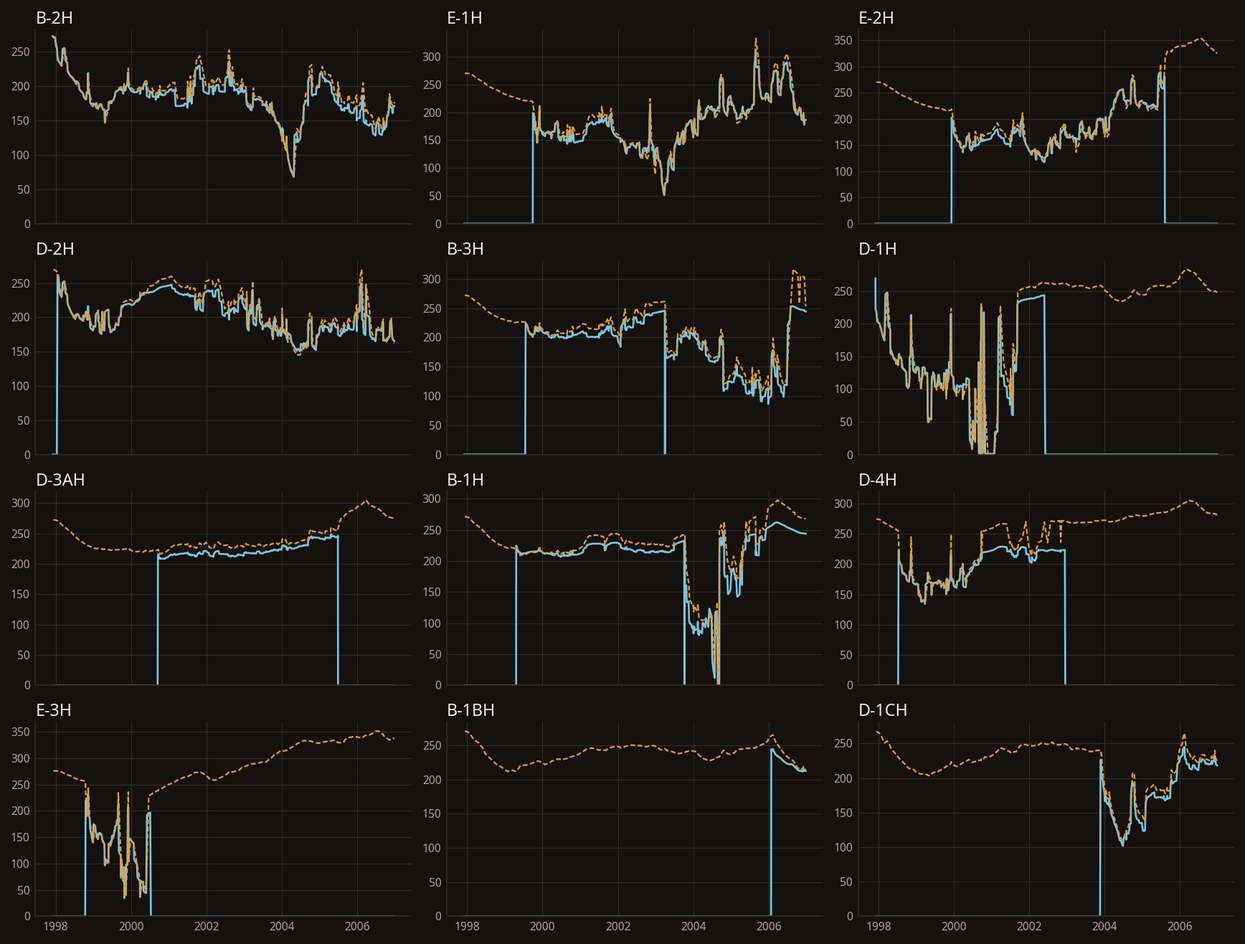
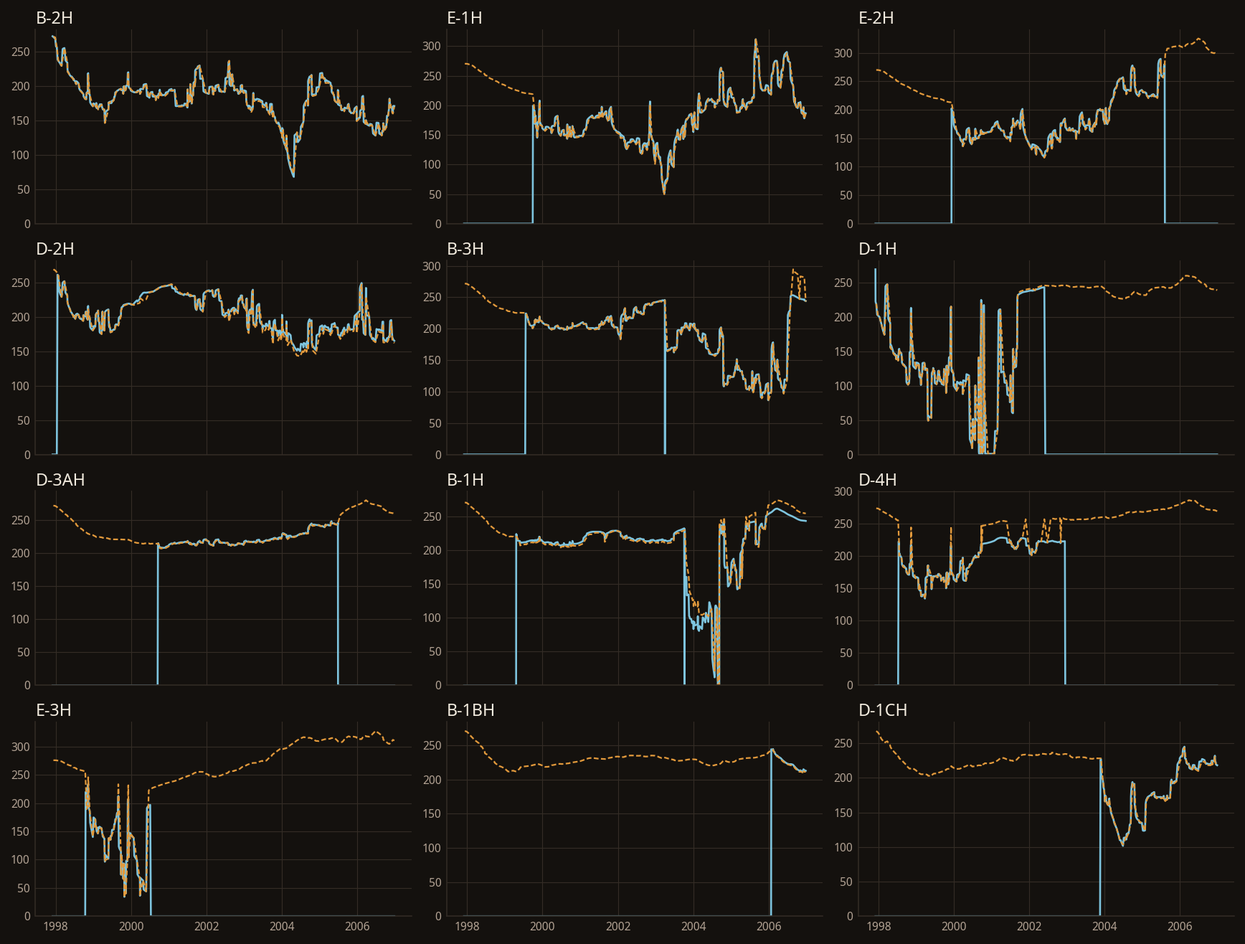
norne fixed

diff --git a/web/index.html b/web/index.html
@@ -41,13 +41,13 @@
           <h1>Солвер пласта.<br><em>Norne против Eclipse.</em></h1>
           <p class="lede">Открытый гидродинамический симулятор: читает DATA-файл Eclipse и считает трёхфазный пласт целиком. Ниже — месторождение Norne, девять лет истории, рядом с Eclipse&nbsp;2014.2.</p>
           <div class="metrics">
-            <div><b>36 мин</b><span>3312 суток на RTX 3090 Ti</span></div>
+            <div><b>35 мин</b><span>3312 суток на RTX 3090 Ti</span></div>
             <div><b>44&nbsp;431</b><span>активная ячейка, 36 скважин</span></div>
-            <div><b>−4,5%</b><span>накопленная нефть к концу</span></div>
-            <div><b>+0,15%</b><span>та же нефть на 1000-е сутки</span></div>
+            <div><b>−0,16%</b><span>накопленная нефть к концу</span></div>
+            <div><b>+0,9%</b><span>накопленная вода к концу</span></div>
           </div>
           <figure class="spark">
-            <img src="assets/hero_fopt.svg" alt="Накопленная нефть: наш солвер и Eclipse почти совпадают и слегка расходятся к 2006 году">
+            <img src="assets/hero_fopt.svg" alt="Накопленная нефть: наш солвер и Eclipse совпадают все девять лет">
             <div class="legend">
               <span><i></i>Eclipse</span>
               <span class="ours"><i></i>наш солвер</span>
@@ -102,7 +102,7 @@
         <div class="prose">
           <p>Norne — открытая модель Equinor, Северное море. Сетка 46×112×22, история с ноября 1997 по декабрь 2006, 3312 суток. Добыча нефти, воды и газа, закачка воды и газа, 36 скважин, реальное расписание, включая остановки и смену режима.</p>
           <p>Считали тот же deck, что Eclipse 2014.2. Сравнивали векторы SUMMARY в наши отчётные даты. Серые точки на графиках — исторические замеры из модели: это то, за чем следует управление скважин, а не второй симулятор. Совпадать мы должны с голубой линией.</p>
-          <p>Первые три года накопленная нефть лежит на Eclipse: <strong>+0,09%</strong> на 360-е сутки и <strong>+0,15%</strong> на 1000-е. Дальше кривые расходятся. К концу нефти меньше на 4,5%, воды больше на 8,0%, газа больше на 0,6%. Закачка газа совпала полностью, закачка воды — до 0,7%.</p>
+          <p>Накопленная нефть лежит на Eclipse все девять лет: по годам расхождение от −0,17% до +0,46%. К концу нефти меньше на 0,16%, воды больше на 0,9%, газа меньше на 0,07%. Закачка газа совпала полностью, закачка воды — до 0,15%. OPM Flow на этом же deck даёт −0,21%, +1,4% и −0,44%.</p>
         </div>
 
         <div class="slip" role="table" aria-label="Накопленные объёмы к декабрю 2006">
@@ -110,22 +110,22 @@
             <span>вектор</span><span>что это</span><span>наш · Eclipse</span><span></span><span>разница</span>
           </div>
           <div class="slip-row" role="row">
-            <span class="slip-k">FOPT</span><span>нефть</span><span class="nums"><b>64,28</b> · <i>67,32</i></span><span class="unit">млн м³</span><span class="delta">−4,5%</span>
+            <span class="slip-k">FOPT</span><span>нефть</span><span class="nums"><b>67,21</b> · <i>67,32</i></span><span class="unit">млн м³</span><span class="delta">−0,16%</span>
           </div>
           <div class="slip-row" role="row">
-            <span class="slip-k">FWPT</span><span>вода</span><span class="nums"><b>25,06</b> · <i>23,20</i></span><span class="unit">млн м³</span><span class="delta">+8,0%</span>
+            <span class="slip-k">FWPT</span><span>вода</span><span class="nums"><b>23,41</b> · <i>23,20</i></span><span class="unit">млн м³</span><span class="delta">+0,9%</span>
           </div>
           <div class="slip-row" role="row">
-            <span class="slip-k">FGPT</span><span>газ</span><span class="nums"><b>14,73</b> · <i>14,64</i></span><span class="unit">млрд м³</span><span class="delta">+0,6%</span>
+            <span class="slip-k">FGPT</span><span>газ</span><span class="nums"><b>14,63</b> · <i>14,64</i></span><span class="unit">млрд м³</span><span class="delta">−0,07%</span>
           </div>
           <div class="slip-row" role="row">
-            <span class="slip-k">FWIT</span><span>закачка воды</span><span class="nums"><b>101,4</b> · <i>102,1</i></span><span class="unit">млн м³</span><span class="delta">−0,7%</span>
+            <span class="slip-k">FWIT</span><span>закачка воды</span><span class="nums"><b>101,95</b> · <i>102,1</i></span><span class="unit">млн м³</span><span class="delta">−0,15%</span>
           </div>
           <div class="slip-row" role="row">
             <span class="slip-k">FGIT</span><span>закачка газа</span><span class="nums"><b>8,685</b> · <i>8,685</i></span><span class="unit">млрд м³</span><span class="delta">0,00%</span>
           </div>
         </div>
-        <p class="note">Среднее по времени |наш − Eclipse| / |Eclipse|: нефть 4,5%, вода 8,8%, газ 1,9%, закачка воды 0,7%, закачка газа меньше 0,001%. Оранжевый пунктир — наш солвер, голубая линия — Eclipse 2014.2.</p>
+        <p class="note">Среднее по времени |наш − Eclipse| / |Eclipse|: дебит нефти 0,65%, воды 1,1%, газа 0,7%, закачки воды 0,06%, закачка газа меньше 0,001%. Оранжевый пунктир — наш солвер, голубая линия — Eclipse 2014.2.</p>
 
         <figure>
           <img class="chart" src="assets/rates.png" alt="Дебиты нефти, воды и газа, закачка и обводнённость: наш солвер, Eclipse и история">
@@ -133,9 +133,9 @@
         </figure>
         <figure>
           <img class="chart" src="assets/cumulative.png" alt="Накопленная добыча и среднее пластовое давление">
-          <figcaption>Накопленные объёмы и давление. Наше давление — среднее по поровому объёму, у Eclipse на графике вектор FPR. К концу 317 бар против 272 бар: определения среднего разные, и разрыв растёт вместе с расхождением добычи, это не только сдвиг шкалы.</figcaption>
+          <figcaption>Накопленные объёмы и давление. Наше давление — среднее по объёму углеводородов, как FPR у Eclipse. К концу 270,8 бар против 271,6 бар.</figcaption>
         </figure>
-        <p class="note">Переток из пласта в ствол нагнетательной скважины смешивается в стволе и уходит обратно в пласт через закачивающие перфорации, как в Eclipse. Со смешением закачка воды подтянулась к Eclipse с −1,8% до −0,7%, газ — с +1,3% до +0,6%, а лишней воды стало больше: +8,0% вместо +5,2%. Прогон 25 октября 2026: 2149 секунд, RTX 3090 Ti, PyTorch 2.7.</p>
+        <p class="note">Что сблизило с Eclipse: VAPPARS отключает заданный раньше DRSDT, как пишет сам Eclipse; Rs и Rv для пересчёта RESV усредняются по объёмам нефти и газа; давление выше конца таблицы PVTG не уводит вязкость газа в минус; кэш линейной подсистемы перестраивается при смене перфораций. Прогон 25 октября 2026: 2106 секунд, RTX 3090 Ti, PyTorch 2.7.</p>
       </div>
     </section>
 
@@ -144,7 +144,7 @@
         <p class="index">03 — скважины</p>
         <h2>Двенадцать крупнейших</h2>
         <div class="prose">
-          <p>Накопленная нефть по скважинам — от +0,4% на E-3H и −0,1% на D-2H до −6,4% на D-1H и −8,2% на D-1CH. Форма дебита, моменты запуска и остановки совпадают даже там, где интеграл уезжает.</p>
+          <p>Накопленная нефть по скважинам: у 12 из 12 расхождение меньше 2%, от +0,0% на E-3H до −1,9% на D-1CH. Форма дебита, моменты запуска и остановки совпадают.</p>
         </div>
         <div class="table-wrap">
           <table class="bench">
@@ -152,18 +152,18 @@
               <tr><th>скважина</th><th class="num">наш, млн м³</th><th class="num">Eclipse</th><th class="num">разница</th></tr>
             </thead>
             <tbody>
-              <tr><td>B-2H</td><td class="num">10,22</td><td class="num">10,82</td><td class="num">−5,5%</td></tr>
-              <tr><td>E-1H</td><td class="num">7,71</td><td class="num">8,04</td><td class="num">−4,2%</td></tr>
-              <tr><td>E-2H</td><td class="num">7,49</td><td class="num">7,82</td><td class="num">−4,2%</td></tr>
-              <tr><td>D-2H</td><td class="num">7,52</td><td class="num">7,53</td><td class="num">−0,1%</td></tr>
-              <tr><td>B-3H</td><td class="num">5,78</td><td class="num">6,11</td><td class="num">−5,5%</td></tr>
-              <tr><td>D-1H</td><td class="num">5,15</td><td class="num">5,50</td><td class="num">−6,4%</td></tr>
-              <tr><td>D-3AH</td><td class="num">3,43</td><td class="num">3,66</td><td class="num">−6,1%</td></tr>
-              <tr><td>B-1H</td><td class="num">3,49</td><td class="num">3,58</td><td class="num">−2,5%</td></tr>
-              <tr><td>D-4H</td><td class="num">3,14</td><td class="num">3,17</td><td class="num">−1,0%</td></tr>
-              <tr><td>E-3H</td><td class="num">1,69</td><td class="num">1,69</td><td class="num">+0,4%</td></tr>
-              <tr><td>B-1BH</td><td class="num">1,39</td><td class="num">1,42</td><td class="num">−2,7%</td></tr>
-              <tr><td>D-1CH</td><td class="num">1,21</td><td class="num">1,32</td><td class="num">−8,2%</td></tr>
+              <tr><td>B-2H</td><td class="num">10,83</td><td class="num">10,82</td><td class="num">+0,1%</td></tr>
+              <tr><td>E-1H</td><td class="num">8,03</td><td class="num">8,04</td><td class="num">−0,2%</td></tr>
+              <tr><td>E-2H</td><td class="num">7,81</td><td class="num">7,82</td><td class="num">−0,1%</td></tr>
+              <tr><td>D-2H</td><td class="num">7,66</td><td class="num">7,53</td><td class="num">+1,7%</td></tr>
+              <tr><td>B-3H</td><td class="num">6,12</td><td class="num">6,11</td><td class="num">+0,1%</td></tr>
+              <tr><td>D-1H</td><td class="num">5,45</td><td class="num">5,50</td><td class="num">−1,0%</td></tr>
+              <tr><td>D-3AH</td><td class="num">3,61</td><td class="num">3,66</td><td class="num">−1,1%</td></tr>
+              <tr><td>B-1H</td><td class="num">3,59</td><td class="num">3,58</td><td class="num">+0,0%</td></tr>
+              <tr><td>D-4H</td><td class="num">3,18</td><td class="num">3,17</td><td class="num">+0,2%</td></tr>
+              <tr><td>E-3H</td><td class="num">1,69</td><td class="num">1,69</td><td class="num">+0,0%</td></tr>
+              <tr><td>B-1BH</td><td class="num">1,42</td><td class="num">1,42</td><td class="num">−0,4%</td></tr>
+              <tr><td>D-1CH</td><td class="num">1,29</td><td class="num">1,32</td><td class="num">−1,9%</td></tr>
             </tbody>
           </table>
         </div>
@@ -221,9 +221,9 @@
     <section id="solver">
       <div class="wrap">
         <p class="index">05 — решатель</p>
-        <h2>Час с четвертью на девять лет</h2>
+        <h2>Полчаса на девять лет</h2>
         <div class="prose">
-          <p>724 шага по времени, 3467 итераций Ньютона, в среднем 4,8 на успешный шаг. Семь шагов не сошлись и были разрезаны — ни один не дошёл до минимального. Иерархия AMG строится и дальше только обновляется. Допуск линейного решателя — неточный Ньютон: пока невязка большая, систему не вылизывают до машинного нуля.</p>
+          <p>683 шага по времени, 3259 итераций Ньютона, в среднем 4,8 на шаг. Три шага не сошлись и были разрезаны — ни один не дошёл до минимального. Иерархия AMG строится и дальше только обновляется. Допуск линейного решателя — неточный Ньютон: пока невязка большая, систему не вылизывают до машинного нуля.</p>
           <p>На миллионе ячеек двухфазный стресс-тест проходит на одной 24 ГБ карте. Norne меньше, но жёстче: жирный газ, разломы, история, скважины, которые открываются и закрываются. Узкое место сейчас не AMG, а то, что в матрице сидят и неактивные ячейки — 113 тысячи вместо 44.</p>
         </div>
         <figure>
@@ -261,7 +261,7 @@
         <p class="index">07 — чего в этом счёте нет</p>
         <h2>Границы, как они есть</h2>
         <ul class="limits">
-          <li><strong>Поздняя вода</strong>К концу истории воды на 8,0% больше, чем у Eclipse, а нефти на 4,5% меньше. Прорыв воды приходит в те же сроки, лишняя вода набегает после него, в основном на E-1H и E-2H. Источник найден: гистерезис газа (защемлённый газ, ISGCR 0,22). С отключённым гистерезисом D-1H и B-2H совпадают с Eclipse, но нефть и газ уходят дальше. Сверяем кривую сканирования газа с Eclipse.</li>
+          <li><strong>Отдельные скважины</strong>Месторождение целиком сходится с Eclipse до долей процента, но по скважинам остаются выбросы: вода на E-4AH больше на 58%, на B-1H меньше на 15%, нефть на D-4AH и E-4AH меньше на 4%.</li>
           <li><strong>Устье и VFP</strong>Нет таблиц VFP и ограничения по устьевому давлению. Для сверки с историей Norne они не нужны: там VFP не задана и забой ограничен 1 атм, но для прогнозов они понадобятся.</li>
           <li><strong>Неактивные ячейки</strong>Решатель несёт все 113&nbsp;344 ячейки сетки. Активных 44&nbsp;431. Лишняя работа примерно в два с половиной раза.</li>
           <li><strong>Трассеры, WECON, сети</strong>TRACER, экономические ограничения скважин и поверхностная сеть не считаются. Гистерезис ОФП — только модель Карлсона. VAPPARS с VAP2 ≠ 0 не поддерживается.</li>

diff --git a/web/main.js b/web/main.js
@@ -1,7 +1,7 @@
 (function () {
   const caps = {
     "assets/wells_oil.png": "Дебит нефти, м³/сут. Голубая — Eclipse, пунктир — наш солвер, точки — история.",
-    "assets/wells_water.png": "Дебит воды, м³/сут. Вода приходит позже нефти: к концу истории её на 8,0% больше, чем у Eclipse.",
+    "assets/wells_water.png": "Дебит воды, м³/сут. Вода приходит позже нефти: к концу истории её на 0,9% больше, чем у Eclipse.",
     "assets/wells_gas.png": "Дебит газа, тыс. м³/сут. Свободный газ плюс растворённый.",
     "assets/wells_bhp.png": "Забойное давление, бар. Нули Eclipse — закрытая скважина. Участки на 1 атм — нижний предел забоя из deck, Eclipse упирается в него же.",
     "assets/map_so.png": "Нефтенасыщенность, среднее по разрезу. Южный сегмент светлеет к 2006 году.",

diff --git a/src/simulator/blackoil_props.py b/src/simulator/blackoil_props.py
@@ -229,16 +229,30 @@ class DeckPVT:
         return b, bm
 
     def gas(self, p, rv=None, sat=None):
-        """1/Bg и μg. Сухой газ (PVDG или PVTG без VAPOIL — Rv = 0); жирный: насыщенный (sat) или по Rv."""
+        """
+        1/Bg и μg. Сухой газ (PVDG или PVTG без VAPOIL — Rv = 0); жирный: насыщенный (sat) или по Rv.
+        За верхним краем таблицы — линейная экстраполяция (как Eclipse/OPM), но 1/Bg и 1/(Bg·μg) не ниже половины
+        значений на краю: у жирного газа они к краю убывают, и линейно продолженная μg уходит в ноль и ниже.
+        """
+        b, bm = self._gas_b_bm(p, rv, sat)
+        p_hi = getattr(self, "_g_p_hi", None)
+        if p_hi is None:
+            p_hi = self._g_p_hi = float(self.g_p[-1])
+        if bool((p.detach() > p_hi).any()):
+            ph = p.clamp(max=p_hi)
+            rv_h = None if rv is None or not self.wet else torch.minimum(rv, self.rv_sat(ph))
+            b_h, bm_h = self._gas_b_bm(ph, rv_h, sat)
+            b, bm = torch.maximum(b, 0.5 * b_h), torch.maximum(bm, 0.5 * bm_h)
+        return b, b / bm
+
+    def _gas_b_bm(self, p, rv, sat):
         if not getattr(self, "pvtg", False):
-            b, bm = interp1_lin(p, self.g_p, self.g_b), interp1_lin(p, self.g_p, self.g_bm)
-            return b, b / bm
+            return interp1_lin(p, self.g_p, self.g_b), interp1_lin(p, self.g_p, self.g_bm)
         if not self.wet:
-            b_u, bm_u = self._gas_2d(p, 0.0 * p)
-            return b_u, b_u / bm_u
+            return self._gas_2d(p, 0.0 * p)
         b_s, bm_s = interp1_lin(p, self.g_p, self.g_b), interp1_lin(p, self.g_p, self.g_bm)
         if rv is None:
-            return b_s, b_s / bm_s
+            return b_s, bm_s
         # недонасыщенный газ: насыщенное значение + приращение 2D-таблицы от Rv_sat(P) до Rv —
         # ветви совпадают на линии насыщения точно (иначе переключения состояния дают скачки массы)
         b2, bm2 = self._gas_2d(p, rv)
@@ -246,7 +260,7 @@ class DeckPVT:
         b_u, bm_u = b_s + (b2 - b2s), bm_s + (bm2 - bm2s)
         if sat is not None:
             b_u, bm_u = torch.where(sat, b_s, b_u), torch.where(sat, bm_s, bm_u)
-        return b_u, b_u / bm_u
+        return b_u, bm_u
 
 
 class BlackOilPVT:

diff --git a/src/simulator/manual_assembly_solver.py b/src/simulator/manual_assembly_solver.py
@@ -560,18 +560,23 @@ class ManualFIMSolver:
     def _linear_subsystem(self):
         """
         Связная часть линейной системы без изолированных ячеек: (keep, iso, позиции блоков, indptr, indices,
-        строки блоков) или None, если изолированных ячеек нет. Структура матрицы постоянна — считается один раз.
+        строки блоков) или None, если изолированных ячеек нет. Перестраивается при смене перфорированных ячеек
+        (COMPDAT по расписанию): ячейка без соседей, но с перфорацией связана со скважиной.
         """
+        wc = getattr(self.wells, "conn_cell", None)
         if getattr(self, "_lin_sub_ready", False):
-            return self._lin_sub
+            prev = self._lin_sub_wc
+            if (wc is None and prev is None) or (wc is not None and prev is not None and wc.shape == prev.shape
+                                                 and bool(torch.equal(wc, prev))):
+                return self._lin_sub
         self._lin_sub_ready, self._lin_sub = True, None
+        self._lin_sub_wc = None if wc is None else wc.clone()
         if not getattr(self, "linear_drop_isolated", True):
             return None
         indptr, indices = self.builder.indptr, self.builder.indices
         n = self.n_cells
         dev = indptr.device
         iso = (indptr[1:] - indptr[:-1]) == 1
-        wc = getattr(self.wells, "conn_cell", None)
         if wc is not None and wc.numel():
             iso[wc] = False
         if int(iso.sum()) == 0:

diff --git a/src/simulator/eclipse_deck.py b/src/simulator/eclipse_deck.py
@@ -313,7 +313,10 @@ class EclipseCase:
                 self.region_tables["rsvd"] = [[(r[0] * u["L"], r[1] * u["gas"] / u["liq"]) for r in self._rows(rec, 2)]
                                               for rec in recs if rec]
             elif kw == "DRSDT":
+                # DRSDT и VAPPARS взаимоисключающие: действует заданный последним (сообщение Eclipse
+                # «DRSDT CONSTRAINT IS NOW DISABLED BY SPECIFICATION OF VAPPARS KEYWORD»)
                 self.drsdt = float(recs[0][0]) * u["gas"] / u["liq"] / DAY
+                self.vappars = None
             elif kw == "ENDSCALE":
                 r = recs[0] if recs else []
                 if str(_get(r, 0, "NODIR")).upper() == "DIRECT":
@@ -364,6 +367,7 @@ class EclipseCase:
                     raise NotImplementedError("VAPPARS после начала расписания не поддерживается")
                 r = recs[0]
                 self.vappars = (float(_get(r, 0, 0.0) or 0.0), float(_get(r, 1, 0.0) or 0.0))
+                self.drsdt = None
             elif kw == "EQLOPTS":
                 self.eqlopts = {str(v).upper() for r in recs for v in r if v is not None}
                 bad = self.eqlopts - {"THPRES", "IRREVERS"}

diff --git a/src/simulator/blackoil_fim.py b/src/simulator/blackoil_fim.py
@@ -901,10 +901,14 @@ class BlackOilFIMSolver(ManualFIMSolver):
             hc_sum = hc.sum().clamp_min(1e-30)
             self.wells.p_avg = float((hc * p.view(-1)).sum() / hc_sum)
             if self.pvt.has_pvt:
-                self.wells.rs_avg = float((hc * self.fluid.rs.reshape(-1).double()).sum() / hc_sum)
+                # Rs — по поровому объёму нефти, Rv — газа (как OPM RateConverter)
+                sg_v = sg_old.reshape(-1)
+                vo = self.pore_volume * (1.0 - sw.view(-1) - sg_v).clamp_min(0.0)
+                vg = self.pore_volume * sg_v.clamp_min(0.0)
+                self.wells.rs_avg = float((vo * self.fluid.rs.reshape(-1).double()).sum() / vo.sum().clamp_min(1e-30))
                 rv = getattr(self.fluid, "rv", None)
-                self.wells.rv_avg = float((hc * rv.reshape(-1).double()).sum() / hc_sum) if self.wet and rv is not None \
-                    else None
+                self.wells.rv_avg = float((vg * rv.reshape(-1).double()).sum() / vg.sum().clamp_min(1e-30)) \
+                    if self.wet and rv is not None and float(vg.sum()) > 0 else None
             self.wells.begin_step(state[0], state[1], t_days)
             p_bh = self.wells.p_bh.clone()
         else:

diff --git a/tests/test_linear_subsystem.py b/tests/test_linear_subsystem.py
@@ -1,0 +1,28 @@
+"""Связная подсистема линейного решателя: изолированные ячейки с перфорацией остаются в системе."""
+import os
+import sys
+import types
+
+import torch
+
+sys.path.insert(0, os.path.join(os.path.dirname(__file__), "..", "src"))
+from simulator.manual_assembly_solver import ManualFIMSolver  # noqa: E402
+
+
+def _solver(conn_cell):
+    # 4 ячейки: 0–1 связаны, 2 и 3 без соседей
+    s = ManualFIMSolver.__new__(ManualFIMSolver)
+    s.n_cells = 4
+    s.builder = types.SimpleNamespace(indptr=torch.tensor([0, 2, 4, 5, 6]), indices=torch.tensor([0, 1, 0, 1, 2, 3]))
+    s.wells = types.SimpleNamespace(conn_cell=conn_cell)
+    return s
+
+
+def test_perforated_isolated_cell_kept_after_compdat():
+    s = _solver(torch.tensor([0]))
+    keep, iso = s._linear_subsystem()[:2]
+    assert iso.tolist() == [2, 3] and keep.tolist() == [0, 1]
+    s.wells.conn_cell = torch.tensor([0, 3])     # новая перфорация в изолированной ячейке
+    keep, iso = s._linear_subsystem()[:2]
+    assert iso.tolist() == [2] and keep.tolist() == [0, 1, 3]
+    assert s._linear_subsystem()[0].tolist() == [0, 1, 3]

diff --git a/tests/test_drsdt_vappars.py b/tests/test_drsdt_vappars.py
@@ -1,0 +1,34 @@
+"""DRSDT и VAPPARS взаимоисключающие: действует ключевое слово, заданное последним (как Eclipse)."""
+import contextlib
+import io
+import os
+import sys
+
+import pytest
+
+sys.path.insert(0, os.path.join(os.path.dirname(__file__), "..", "src"))
+from simulator.eclipse_deck import EclipseCase  # noqa: E402
+
+SPE1 = os.path.join(os.path.dirname(__file__), "data", "spe1", "SPE1CASE1.DATA")
+DRSDT = "DRSDT\n 0 /\n"
+VAPPARS = "VAPPARS\n 0.5 0 /\n"
+
+
+def _case(tmp_path, block):
+    text = open(SPE1).read()
+    assert DRSDT in text
+    p = tmp_path / "SPE1CASE1.DATA"
+    p.write_text(text.replace(DRSDT, block))
+    with contextlib.redirect_stdout(io.StringIO()):
+        return EclipseCase(str(p))
+
+
+@pytest.mark.parametrize("block, drsdt, vappars", [
+    (DRSDT, True, False),
+    (DRSDT + VAPPARS, False, True),
+    (VAPPARS + DRSDT, True, False),
+])
+def test_last_keyword_wins(tmp_path, block, drsdt, vappars):
+    case = _case(tmp_path, block)
+    assert (case.drsdt is not None) == drsdt
+    assert (case.vappars is not None) == vappars

diff --git a/docs/PROJECT_SUMMARY.md b/docs/PROJECT_SUMMARY.md
@@ -30,13 +30,13 @@ Oil Simulator — это GPU-ускоренный исследовательск
 - AMG решает миллионные сетки на одной 24 ГБ GPU.
 - Кэш и обновление матрицы позволяют выполнять долгие расчёты без перестройки иерархии.
 - Подготовлена подробная документация (HTML + PDF).
-- Black-oil FIM: SPE1 и SPE9 — доли процента от Eclipse; Norne (3312 сут) — 36 мин на RTX 3090 Ti,
-  FOPT −4.5%, FWPT +7.9%, FGPT +0.6% против Eclipse 2014.2.
+- Black-oil FIM: SPE1 и SPE9 — доли процента от Eclipse; Norne (3312 сут) — 35 мин на RTX 3090 Ti,
+  FOPT −0.16%, FWPT +0.9%, FGPT −0.07% против Eclipse 2014.2.
 
 ## Планы развития
 
 1. Оптимизация памяти (смешанная точность, альтернативный коэрснинг).
-2. Black-oil FIM: поздняя вода на Norne (кривая сканирования гистерезиса газа против Eclipse), VFP и устьевое
+2. Black-oil FIM: выбросы по отдельным скважинам Norne (вода E-4AH, B-1H), VFP и устьевое
    давление для прогнозных расчётов, WECON.
 3. Масштабирование на несколько GPU и внедрение распределённого AMG.
 4. Расширение библиотеки физических моделей (полимер, термические эффекты).

diff --git a/docs/CHANGELOG.md b/docs/CHANGELOG.md
@@ -9,6 +9,7 @@
 - Исправлено зацикливание Ньютона на нагнетательной с нулевой уставкой и перетоком (Norne, C-3H, 3068 сут).
 - `run_deck`: чекпоинты (`checkpoint`, `checkpoint_every`) и продолжение расчёта (`resume`).
 - Полный Norne (3312 сут) со смешением: 74 мин на RTX 3090 (после выделения изолированных ячеек — 36 мин на RTX 3090 Ti); FOPT −4.5%, FGPT +0.6%, FWIT −0.7%, FGIT 0.00%
+- Norne ближе к Eclipse: VAPPARS отключает DRSDT (действует последнее), Rs/Rv для RESV по объёмам фаз, PVTG выше таблицы не даёт μg < 0, кэш изолированных ячеек перестраивается при смене перфораций. FOPT −0.16%, FWPT +0.90%, FGPT −0.07%, FWIT −0.15%; 35 мин, 683 подшага
   против Eclipse 2014.2.
 - `iter_deck` — пошаговый генератор прогона deck с `control_hook`; `run_deck` — обёртка над ним.
 - `DeckEnv` (`src/deck_env.py`) — среда gymnasium для агентов поверх deck Eclipse, старт с чекпоинта.

diff --git a/docs/index.md b/docs/index.md
@@ -15,8 +15,8 @@
 
 Полностью неявный black-oil читает deck Eclipse (*.DATA): corner-point сетку с разломами, PVT и ОФП по регионам,
 расписание скважин и группы. Он проверен против Eclipse 2014.2 и OPM Flow: на SPE1 и SPE9 расхождение — доли
-процента, месторождение Norne (36 скважин, 3312 суток) считается целиком за 36 минут на одной RTX 3090 Ti
-(накопленная нефть −4.5%, закачка газа и воды — до 0.7%).
+процента, месторождение Norne (36 скважин, 3312 суток) считается целиком за 35 минут на одной RTX 3090 Ti
+(накопленная нефть −0.16%, вода +0.9%, закачка газа и воды — до 0.15%).
 
 ## Как пользоваться документацией
 
